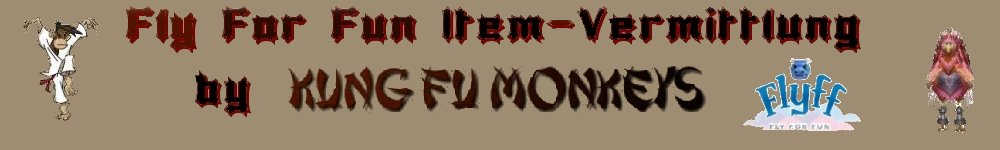
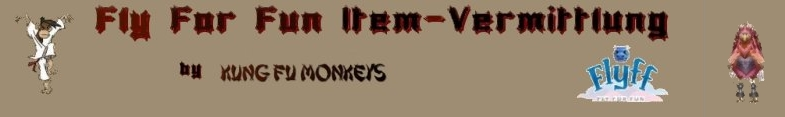
kopfleiste gemacht

diff --git a/flyff/index.css b/flyff/index.css
@@ -27,7 +27,7 @@ h1, h2 {
 #kopfleiste {
 			background-color:					#9e8d73;
 			margin:								20px;
-			height: 							150px;
+			height: 							120px;
 			border-style:						solid;
 			border-color:						#7a624d;
 			border-with:						1px;
@@ -41,9 +41,10 @@ h1, h2 {
  			-khtml-border-radius-bottomleft:	30px;
  			-khtml-border-radius-bottomright:	30px;
 			}
-#kopfleiste img {
+#kopfleiste-bild{			
 				margin: 0px 20px 0px 20px;
 				}
+
 
 #navi {
 		float:			left;
@@ -68,11 +69,15 @@ h1, h2 {
 		border-top-color: #b9aa8d;
 		border-top-style: solid;
 }										
-
+#angebot_uebersicht {
+					margin: auto;
+					text-align: center;
+					}
 #angebotabgabe{
+				text-align: 	center;
 				border: 2px dotted black;
 				padding: 10px;
-				margin: 20px;
+				margin: auto;
 				}
 
 #angebotabgabe th{
@@ -86,6 +91,10 @@ h1, h2 {
 					vertical-align:top;
 					padding-bottom:15px;
 	}
+.tabelle_login{
+				margin: auto;
+				text-align: center;
+				}
 .login{
 		fontsize:large;
 		font-weight:bold;

diff --git a/flyff/Angebotsdetails.php b/flyff/Angebotsdetails.php
@@ -10,7 +10,7 @@
 
 	<body>
 	<p id="kopfleiste" > 
-<img  src="bilder/kopfleiste.jpg" alt="Logo der Item-Vermittlung Seite" />
+<img id="kopfleiste-bild" src="bilder/kopfleiste.jpg" alt="Logo der Item-Vermittlung Seite" />
 </p>
 	
 	<?php
@@ -57,7 +57,7 @@
 			<td> Beschreibung</td>
 			<td><?=$angebot['Beschreibung']?></td>
 		</tr>
-		
+		</table>
 		
 	</div>
 	</body>

diff --git a/flyff/index.php b/flyff/index.php
@@ -10,7 +10,7 @@
  <title>KF-Monkeys Shop</title>
 </head>
 		<p id="kopfleiste" > 
-<img  src="bilder/kopfleiste.jpg" alt="Logo der Item-Vermittlung Seite" />
+<img  id="kopfleiste-bild" src="bilder/kopfleiste.jpg" alt="Logo der Item-Vermittlung Seite" />
 </p>
 	<body>
 	<?php

diff --git a/flyff/Eigenes-Konto.php b/flyff/Eigenes-Konto.php
@@ -12,7 +12,7 @@
 
 	<body>
 		<p id="kopfleiste" > 
-<img  src="bilder/kopfleiste.jpg" alt="Logo der Item-Vermittlung Seite" />
+<img id="kopfleiste-bild" src="bilder/kopfleiste.jpg" alt="Logo der Item-Vermittlung Seite" />
 </p>
 	<?php
 		include("navigation.php");

diff --git a/flyff/kopfleiste.php b/flyff/kopfleiste.php
@@ -1,3 +1,3 @@
 <p>
-<img src="bilder/kopfleiste.jpg" alt="Logo der Item-Vermittlung Seite" />
+<img id="kopfleiste-bild" src="bilder/kopfleiste.jpg" alt="Logo der Item-Vermittlung Seite" />
 </p>
